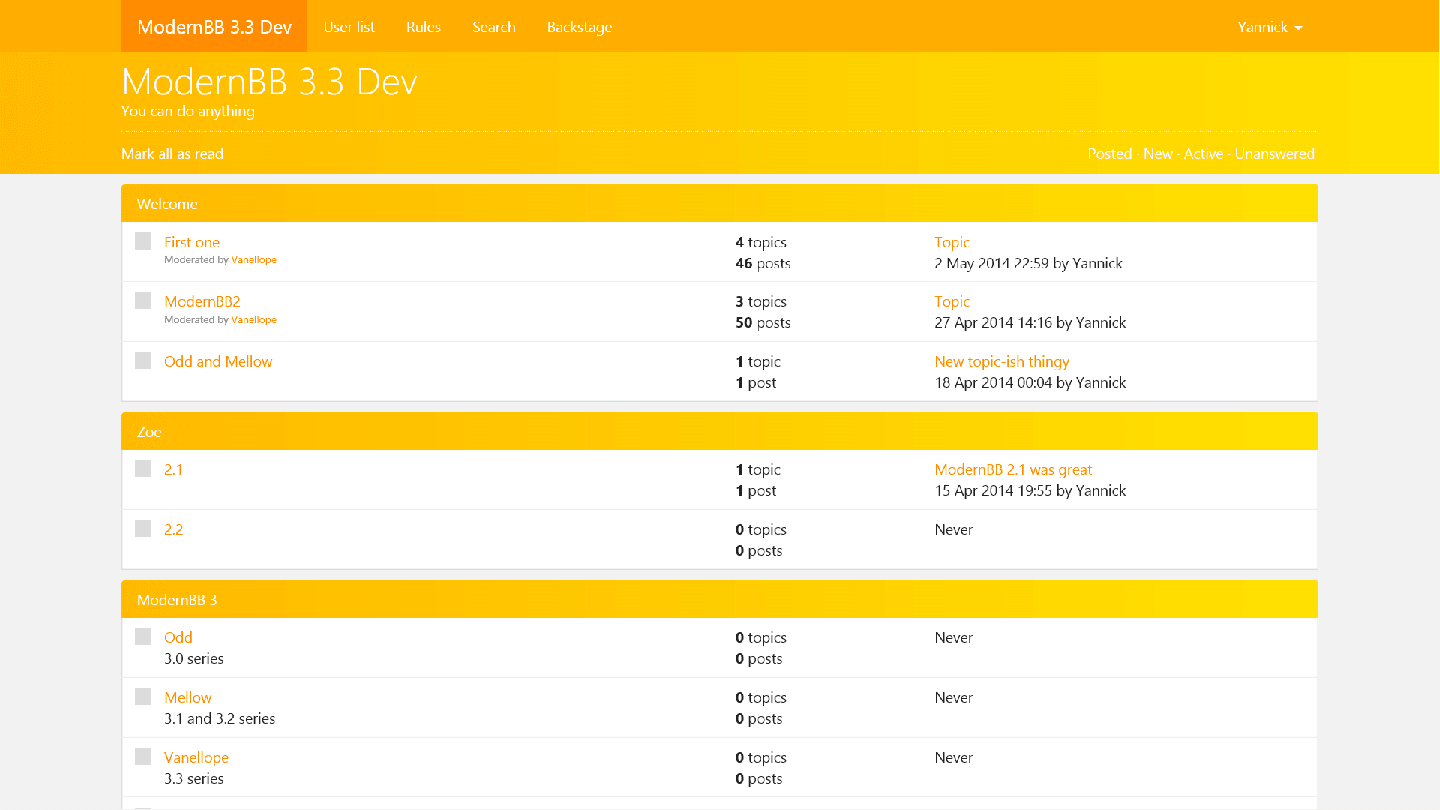
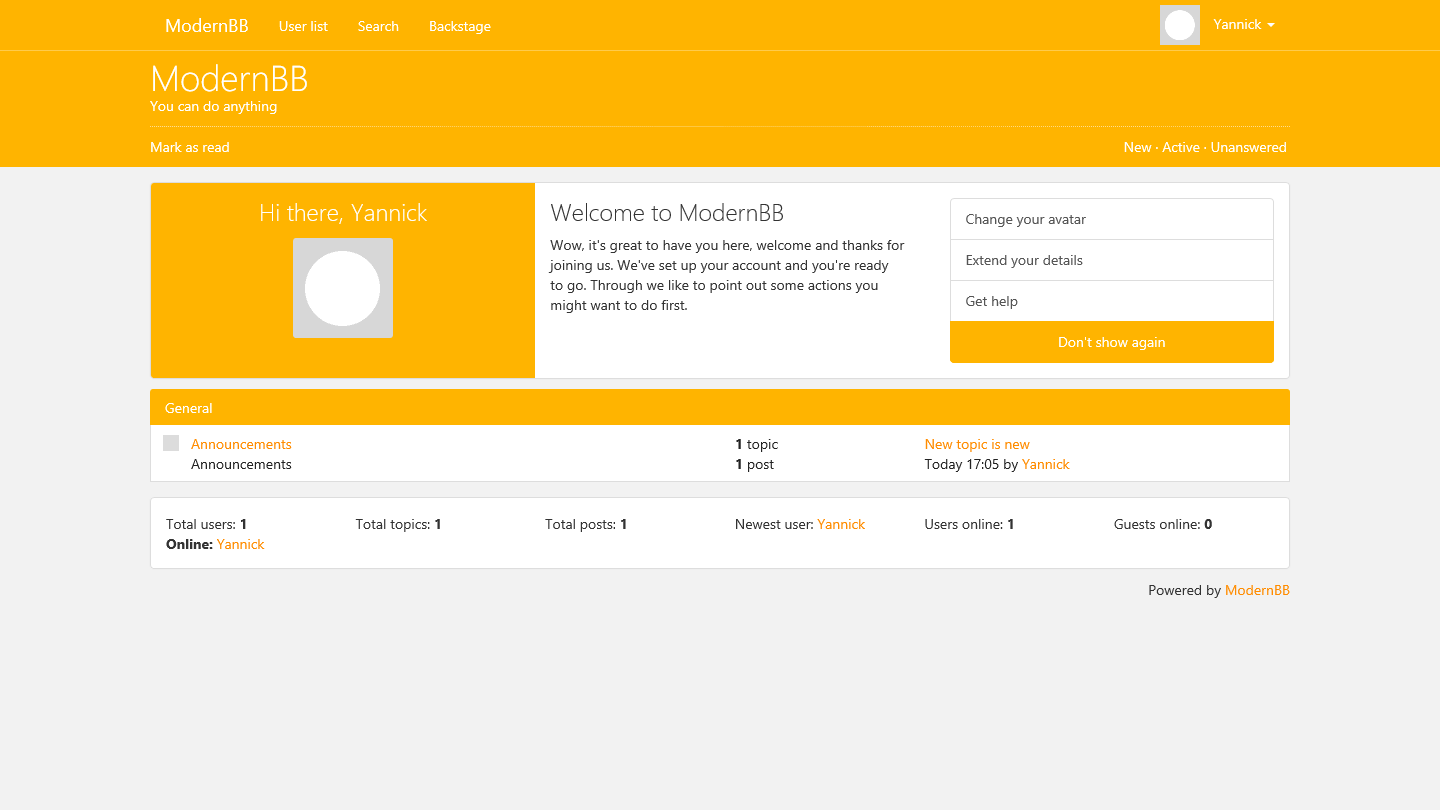
#979 Kind 4.0 update

diff --git a/style/Kind/style.css b/style/Kind/style.css
@@ -71,8 +71,7 @@ h1, h2, h3, h4, h5, h6 {
 
 /* Header */
 #header {
-	background: #ffb900;
-	background: linear-gradient(to right, #ffb900, #ffe100);
+	background: #ffb400;
 	color: #fff;
 }
 
@@ -95,7 +94,7 @@ h1, h2, h3, h4, h5, h6 {
 	}
 
 	#header .dropdown-menu > li > a:hover, #header .dropdown-menu > li > a:focus {
-		background: #ffc600;
+		background: #ffb400;
 	}
 
 	.dropdown-menu .divider {
@@ -110,12 +109,6 @@ h1, h2, h3, h4, h5, h6 {
 
 .announcement a {
 	text-decoration: underline;
-}
-
-@media screen and (min-width: 768px) {
-	.navbar-default .navbar-brand, .navbar-default .navbar-brand:hover, .navbar-default .navbar-brand:focus {
-		background: #ff8c00;
-	}
 }
 
 .avatar-item .avatar {
@@ -169,8 +162,7 @@ h1, h2, h3, h4, h5, h6 {
 }
 
 .first-run-profile {
-	background-image: url(../../img/core/firstrun.png);
-	background-size: cover;
+	background: #ffb400;
 	border-bottom-left-radius: 3px;
 	border-top-left-radius: 3px;
 	padding-bottom: 16px;
@@ -188,7 +180,6 @@ h1, h2, h3, h4, h5, h6 {
 
 .first-run-avatar img {
 	border-radius: 3px;
-	box-shadow: 0px 0px 13px #808080;
 }
 
 .first-run-list {
@@ -284,8 +275,7 @@ h1, h2, h3, h4, h5, h6 {
 
 .panel-default .panel-heading {
 	border: none;
-	background: #ffb900;
-	background: linear-gradient(to right, #ffb900, #ffe100);
+	background: #ffb400;
 	color: #fff;
 	height: 37px;
 }
@@ -309,23 +299,13 @@ h1, h2, h3, h4, h5, h6 {
 	margin: 0 auto;
 }
 
-@media(min-width:767px) {
-	ul.nav li.dropdown:hover > ul.dropdown-menu{
-		display: block;
-	}
-}
-
 .navbar {
-	border: none;
-	background: #ffae00;
+	background: #ffb400;
+	border-bottom-color: rgba(255,255,255,.3);
 }
 
-.navbar-default .navbar-nav > li > a:hover, .navbar-default .navbar-nav > li > a:focus, .navbar-default .navbar-nav > .active > a, .navbar-default .navbar-nav > .active > a:hover, .navbar-default .navbar-nav > .active > a:focus {
-	background-color: #ff9600;
-}
-
-.navbar-default .navbar-nav > .open > a, .navbar-default .navbar-nav > .open > a:hover, .navbar-default .navbar-nav > .open > a:focus {
-    background-color: #ff9600;
+.navbar-default .navbar-nav > .open > a, .navbar-default .navbar-nav > .open > a:hover, .navbar-default .navbar-nav > .open > a:focus, .navbar-default .navbar-nav > .active > a, .navbar-default .navbar-nav > .active > a:hover, .navbar-default .navbar-nav > .active > a:focus {
+	background-color: transparent;
     color: #fff;
 }
 
@@ -352,7 +332,7 @@ h1, h2, h3, h4, h5, h6 {
 }
 
 .navbar-default .navbar-toggle .icon-bar {
-	background-color: #ffae00;
+	background-color: #ffb400;
 }
 
 /* Pagination */
@@ -367,8 +347,8 @@ h1, h2, h3, h4, h5, h6 {
 }
 
 .pagination > .active > a, .pagination > .active > span, .pagination > .active > a:hover, .pagination > .active > span:hover, .pagination > .active > a:focus, .pagination > .active > span:focus {
-	border: 1px solid #ff9600;
-	background-color: #ff9600;
+	border: 1px solid #ffb400;
+	background-color: #ffb400;
 }
 
 /* Profile */
@@ -378,8 +358,8 @@ h1, h2, h3, h4, h5, h6 {
 }
 
 a.active.list-group-item, a.active.list-group-item:hover, a.active.list-group-item:focus {
-	background-color: #ffae00;
-	border-color: #ffae00;
+	background-color: #ffb400;
+	border-color: #ffb400;
 }
 
 .profile-h2 {
@@ -525,14 +505,12 @@ a.active.list-group-item, a.active.list-group-item:hover, a.active.list-group-it
 
 .table > thead > tr.active {
 	color: #fff;
-	background: #ffb900;
-	background: linear-gradient(to right, #ffb900, #ffe100);
+	background: #ffb400;
 }
 
 .category-header, .forum-header {
 	color: #fff;
-	background: #ffb900;
-	background: linear-gradient(to right, #ffb900, #ffe100);
+	background: #ffb400;
 	padding: 8px 0;
 	border-top-left-radius: 3px;
 	border-top-right-radius: 3px;
@@ -584,18 +562,18 @@ a.active.list-group-item, a.active.list-group-item:hover, a.active.list-group-it
 
 .btn-primary {
 	color: #fff;
-	background-color: #f08200;
-	border: 1px solid #ea6300;
+	background-color: #ffb400;
+	border: 1px solid #ffa200;
 }
 
 .btn-primary:hover, .btn-primary:focus, .btn-primary:active, .btn-primary.active, .btn-primary.disabled, .btn-primary[disabled] {
 	color: #fff;
-	background-color: #f0af00;
-	border: 1px solid #d39a00;
+	background-color: #ffa200;
+	border: 1px solid #ff9000;
 }
 
 .btn-primary:active, .btn-primary.active {
-	background-color: #aa4200 9;
+	background-color: #ff9000 9;
 }
 
 .btn-post {
@@ -929,7 +907,7 @@ textarea {
 
 .profile-card-head {
 	height: 59px;
-	background-color: #ffb900;
+	background-color: #ffb400;
 	color: #fff;
 	border-top-left-radius: 3px;
 	border-top-right-radius: 3px;
@@ -997,12 +975,11 @@ textarea {
     left: 4px;
     margin-top: -2px;
     border-left-width: 0px;
-    border-right-color: #ffb900;;
+    border-right-color: #ffb400;;
 }
 
 .topic .panel-heading {
-	background: #ffb900;
-	background: linear-gradient(to right, #ffb900, #ffe100);
+	background: #ffb400;
 }
 
 .post-actions {
@@ -1020,8 +997,7 @@ textarea {
 	}
 
 	.profile-card-head {
-		background: #ffb900;
-		background: linear-gradient(to right, #ffb900, #ffe100);
+		background: #ffb400;
 	}
 
 	.topic .panel-heading  {
@@ -1105,8 +1081,7 @@ blockquote footer {
 .form-heading {
 	margin-bottom: 0px;
 	font-weight: 100;
-	background: #ffb900;
-	background: linear-gradient(to right, #ffb900, #ffe100);
+	background: #ffb400;
 	color: #fff;
 	padding: 20px;
 	border-top-right-radius: 3px;
@@ -1173,7 +1148,6 @@ blockquote footer {
 
 .form-errors {
 	background: #ff6000;
-	background: linear-gradient(to right, #ce4e00, #ff6000);
 }
 
 @media screen and (max-width: 767px) {

diff --git a/style/Kind/information.php b/style/Kind/information.php
@@ -15,8 +15,8 @@ $xmlstr = <<<XML
 	<id>kind</id>
 	<name>Kind</name>
 	<developer>Studio 384</developer>
-	<date>23 November 2014</date>
-	<version>3.2.2</version>
+	<date>24 November 2014</date>
+	<version>4.0-dev</version>
 	<description>As fancy as can be, Awesome is a style designed to be great and simple. Make it look yellow, my friend!</description>
 	<minversion>3.4.1</minversion>
 	<maxversion>3.5.3</maxversion>
